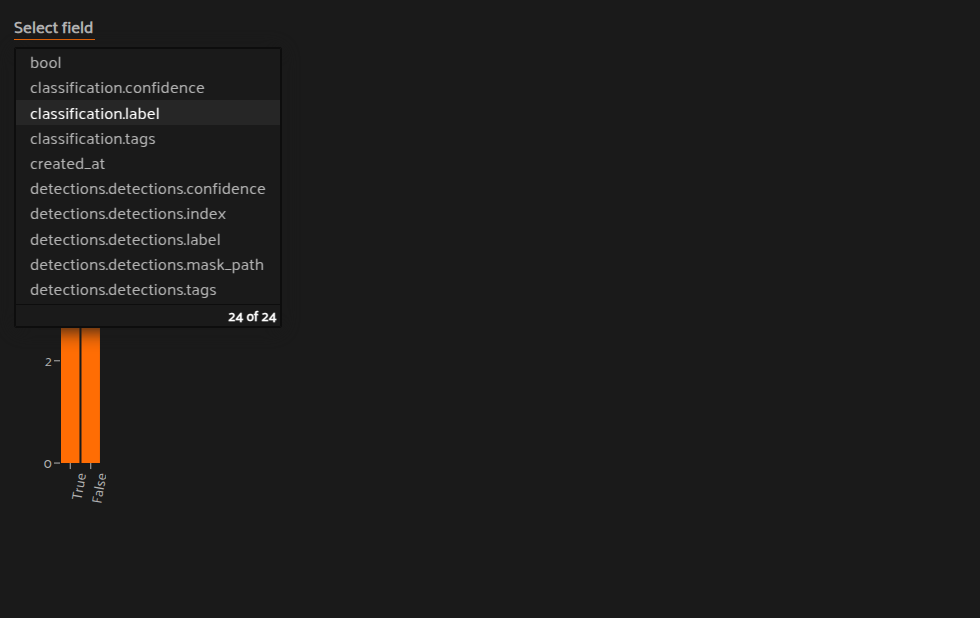
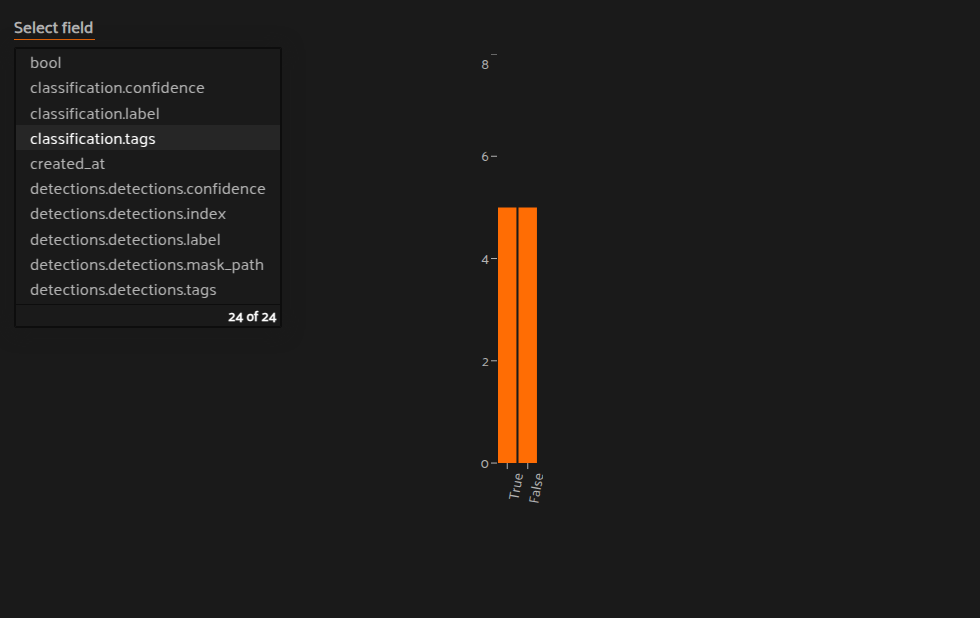
Merge pull request #7324 from voxel51/mikeobrien/histogramCentering
[FOEPD-3649] Histogram Centering

Pull request: [FOEPD-3649] Histogram Centering
Centers the BarChart within its histogram container so histograms no
longer sit left-aligned when the chart is narrower than the container.

Before:
<img width="1415" height="1356" alt="screenshot-2026-04-07_08-28-20" src="https://github.com/user-attachments/assets/a08d1c78-fa84-4e27-87ff-49dc4a5b4351" />


After:
<img width="1406" height="1350" alt="screenshot-2026-04-07_08-27-13" src="https://github.com/user-attachments/assets/e8286ace-57ce-4ccd-8e4b-7973c2f74ec2" />


## 🔗 Related Issues

No related issues to link

## 📋 What changes are proposed in this pull request?

Histogram bar charts were left-aligned inside their container because no
alignment was applied. Wraps the BarChart in a flex div with
`justify-content: center` so charts of any width sit centered in the
available space.

## 🧪 How is this patch tested? If it is not, please explain why.

Manually verified by opening the sidebar histogram panel for various
fields and confirming the chart is centered in the container at different
widths. No unit tests — this is a two-line CSS layout change with no
logic changes.

## 📝 Release Notes

### Is this a user-facing change that should be mentioned in the release notes?

-   [x] No. You can skip the rest of this section.

### What areas of FiftyOne does this PR affect?

-   [x] App: FiftyOne application changes


<!-- This is an auto-generated comment: release notes by coderabbit.ai -->

## Summary by CodeRabbit

* **Style**
[…]

diff --git a/app/packages/core/src/components/Histogram.tsx b/app/packages/core/src/components/Histogram.tsx
@@ -180,6 +180,7 @@ const HistogramRenderer: React.FC<{ path: string }> = ({ path }) => {
   return data.length ? (
     <Container id={`histogram-${path}`} ref={ref}>
       {hasMore && <Title>{`First ${data?.length} results`}</Title>}
+      <div style={{ display: "flex", justifyContent: "center" }}>
       <BarChart
         height={height - 37}
         width={data.length * (barWidth + 4) + 50}
@@ -247,6 +248,7 @@ const HistogramRenderer: React.FC<{ path: string }> = ({ path }) => {
           isAnimationActive={false}
         />
       </BarChart>
+      </div>
     </Container>
   ) : (
     <Loading>No Data</Loading>